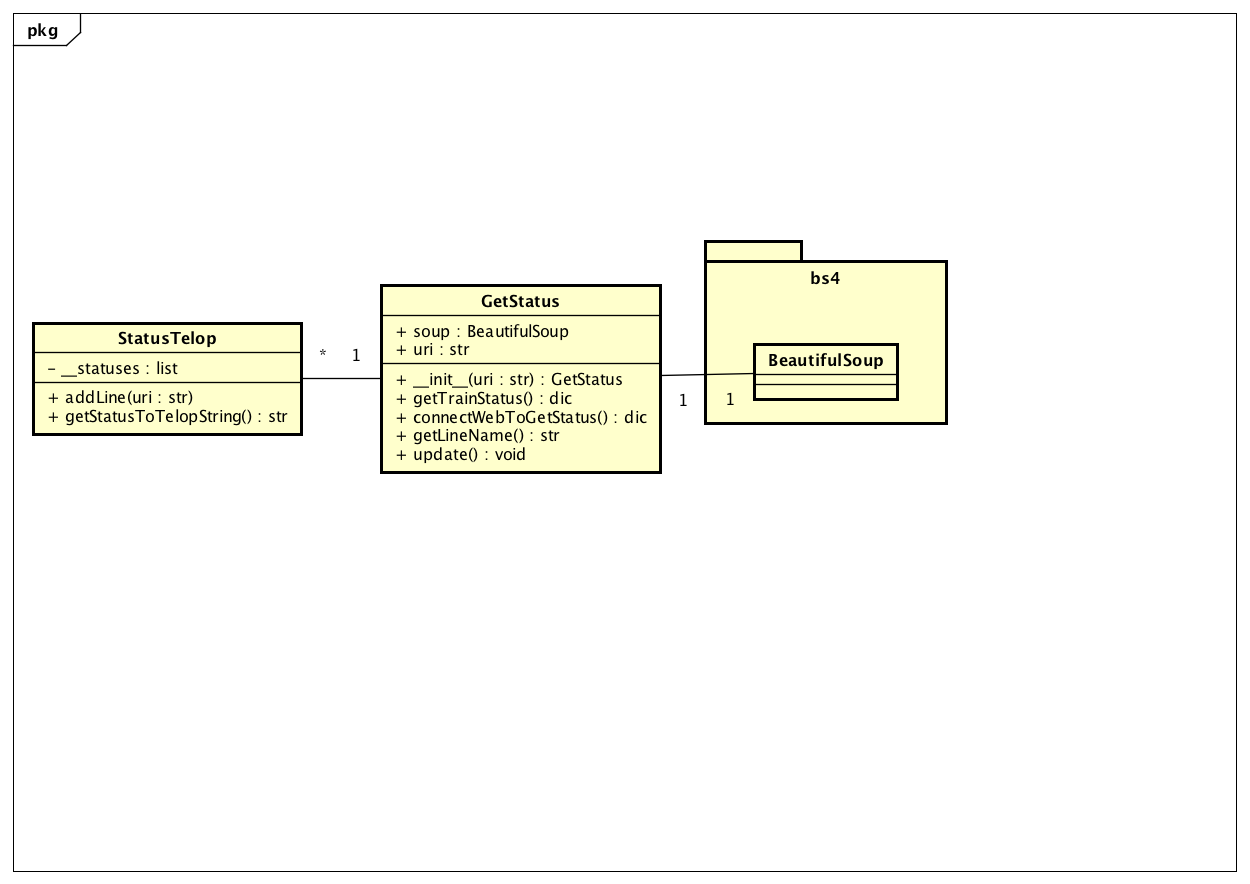
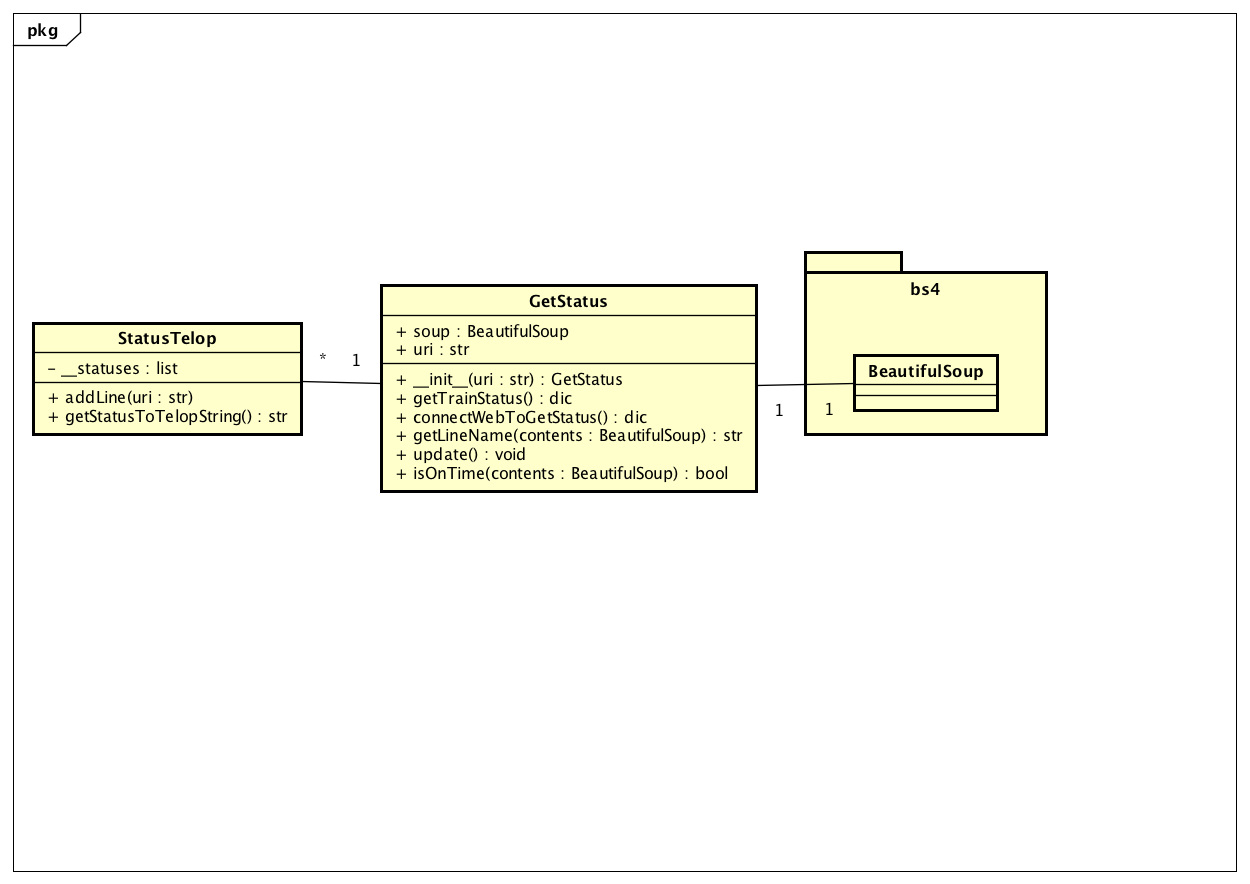
[add] メソッドの追加及び肉付け

Changed region(s): [[0.2808, 0.2443, 0.8424, 0.5803], [0.3744, 0.336, 0.4992, 0.3665], [0.2496, 0.4276, 0.312, 0.4581]]

diff --git a/GetStatus.py b/GetStatus.py
@@ -11,9 +11,17 @@ class GetStatus:
 
     def connectWebToGetStatus(self):
         contents = self.soup.find('div', id="mdServiceStatus")
-        print(contents.text)
+        onTime = self.checkOnTime(contents)
+        nowStatus = contents.find('p').text
+        print(nowStatus)
 
-    def getTitle(self):
+    def isOnTime(self,contents):
+        if len(contents.find_all('trouble')) == 0:
+            return True
+        else:
+            return False
+
+    def getLineTitle(self, contents):
         pass #todo
 
     def update(self):
